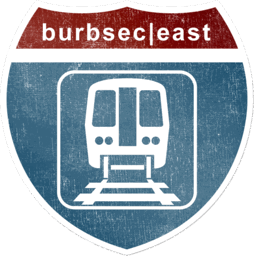
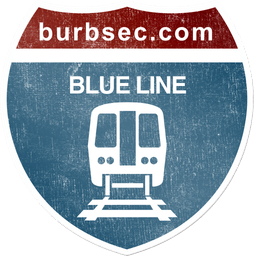
Added Pilsen

diff --git a/src/lib/data/events.js b/src/lib/data/events.js
@@ -86,6 +86,46 @@ export const chicagolandEvents = [
 		}
 	},
 	{
+		slug: 'pilsen',
+		title: 'BurbSec|Pilsen',
+		subtitle: 'Meets Every Second Thursday of the Month',
+		location: 'Chicago, IL',
+		eventImage: '/images/pilsen_shield.png',
+		gmapsLink: 'https://www.google.com/maps/search/?api=1&query=Monochrome+Brewing%2C+2101+S+Carpenter+St%2C+Chicago%2C+IL+60608',
+		blueskyHandle: 'burbsecpilsen.bsky.social',
+		discordLink: 'https://tinyurl.com/burbchat',
+		meetupPage: 'https://www.meetup.com/burbsec/events/',
+		eventbriteLink: null,
+		galleryFolder: 'pilsen',
+		cardTitle: 'Pilsen (Chicago)',
+		cardSchedule: 'Every Second Thursday',
+		category: 'chicagoland',
+		schedule: { week: 2, weekday: 4, time: '18:00', tz: 'America/Chicago' },
+		seo: {
+			title: 'BurbSec Pilsen Chicago | Information Security Meetup Every Second Thursday',
+			description: 'Join BurbSec Pilsen in Chicago, IL - an informal information security meetup for cybersecurity enthusiasts, ethical hackers, and IT professionals. Every second Thursday at Monochrome Brewing in Pilsen. No dues, no presentations, just networking!',
+			keywords: 'pilsen information security, pilsen cybersecurity meetup, chicago infosec, lower west side tech meetup, monochrome brewing pilsen, chicago security professionals, cybersecurity networking chicago, ethical hacking chicago, south side chicago infosec',
+			image: `${SITE_URL}/images/pilsen_shield.png`
+		},
+		structuredData: {
+			venueName: 'Monochrome Brewing',
+			streetAddress: '2101 S Carpenter St',
+			addressLocality: 'Chicago',
+			addressRegion: 'IL',
+			postalCode: '60608',
+			addressCountry: 'US',
+			latitude: '41.8534',
+			longitude: '-87.6527'
+		},
+		sponsor: {
+			when: 'Every SECOND Thursday',
+			attendance: '~10 active and prospective IT and Infosec professionals and enthusiasts',
+			crowd: null,
+			venueName: 'Monochrome Brewing in Pilsen, Chicago',
+			avgSponsorship: '$150'
+		}
+	},
+	{
 		slug: 'north',
 		title: 'BurbSec|North',
 		subtitle: 'Meets Every Second Thursday of the Month',

diff --git a/src/routes/pilsen/+page.svelte b/src/routes/pilsen/+page.svelte
@@ -1,0 +1,24 @@
+<script>
+	import EventPage from '$lib/components/EventPage.svelte';
+	import { getEventProps } from '$lib/data/events.js';
+
+	let { data } = $props();
+
+	const event = getEventProps('pilsen');
+</script>
+
+<EventPage {...event} galleryImages={data.galleryImages}>
+	<p>
+		BurbSec Pilsen is an informal meetup of Information Security enthusiasts, engineers,
+		hackers, and general geeks! Expect a night of great networking and lubricated
+		conversations, with experience levels ranging from college students through CISOs.
+		We have NO DUES, NO PRESENTATIONS, and NO PUSHY SALESPEOPLE OR RECRUITERS!
+	</p>
+
+	<p>
+		We meet at Monochrome Brewing on South Carpenter Street, a neighborhood taproom in the
+		heart of Pilsen with plenty of room to spread out. Folks start rolling in around 6pm
+		after work and the night usually runs four to six hours — come when you can, stay as
+		long as you like.
+	</p>
+</EventPage>

diff --git a/src/routes/pilsen/+page.server.js b/src/routes/pilsen/+page.server.js
@@ -1,0 +1,9 @@
+import { getGalleryImages } from '$lib/server/gallery.js';
+import { getEvent } from '$lib/data/events.js';
+
+export function load() {
+	const event = getEvent('pilsen');
+	return {
+		galleryImages: getGalleryImages(event?.galleryFolder)
+	};
+}
